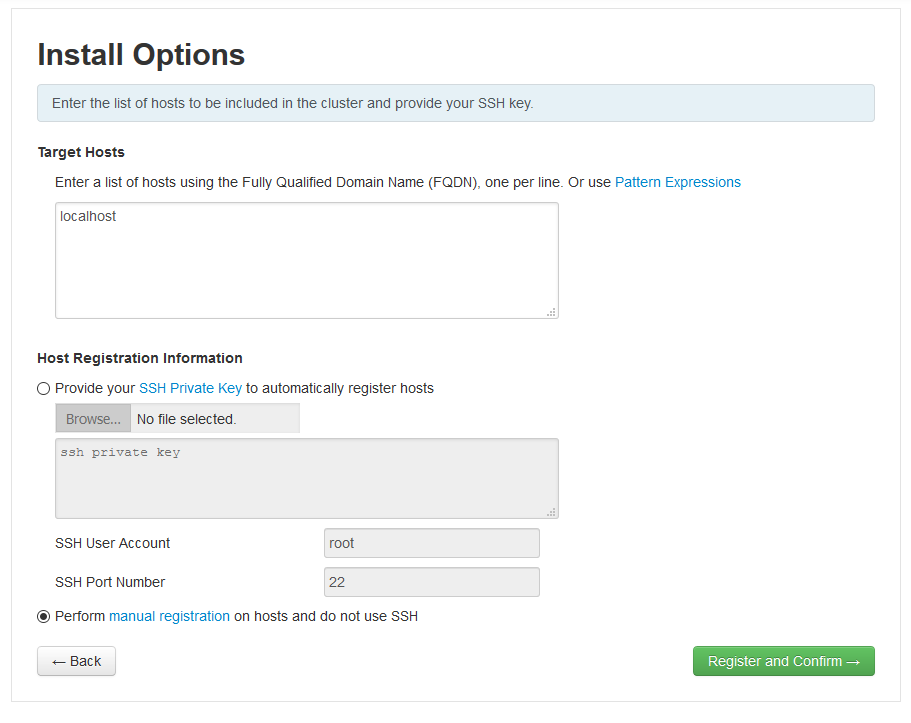
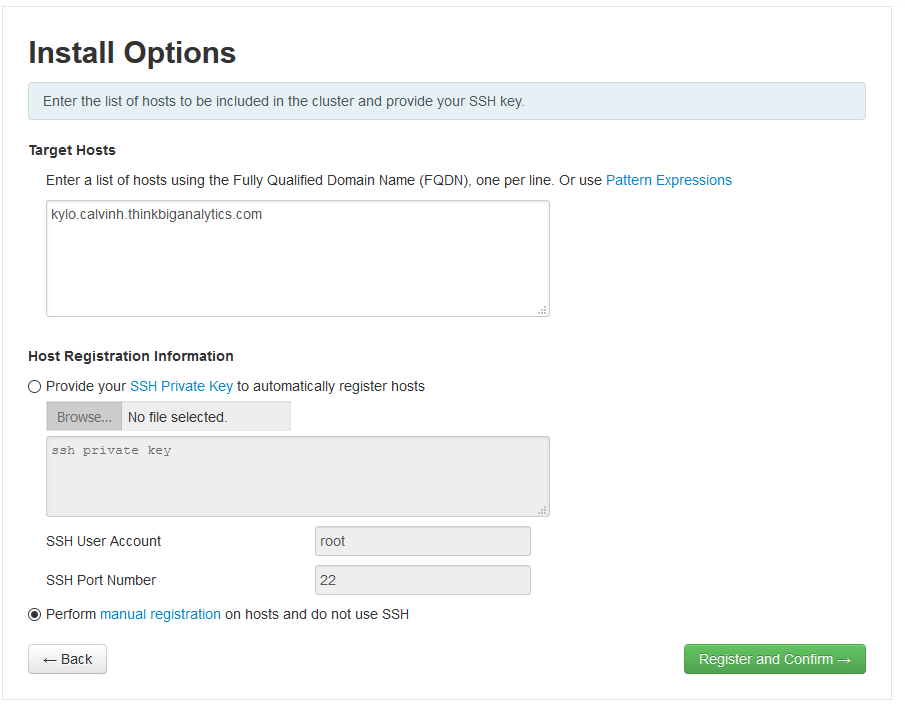
added more content

diff --git a/chapter2/section2.md b/chapter2/section2.md
@@ -81,8 +81,14 @@ On the Select Version page, chose the latest version. If you've got the reposito
 
 ![Local Image](/images/hdp-repo-rhel7.PNG)
 
-On the Install Options page, put 'localhost' into the list of target hosts. If you're building an entirely new cluster with several machines, you can put in the hostnames here, one per line. Note that if you're setting up multiple machines it would be a good idea to setup the SSH key for each of them. Technically, we could also setup an SSH key for the local machine, but that is pretty overkill.
+On the Install Options page, put in your machines hostname into the list of target hosts. If you're building an entirely new cluster with several machines, you can put in the hostnames here, one per line. Note that if you're setting up multiple machines it would be a good idea to setup the SSH key for each of them. Technically, we could also setup an SSH key for the local machine, but that is pretty overkill.
 
 As we've already started and installed the Ambari Agent on this all-in-one machine, we can accept the manual registration option. We just need to ensure the ambari-client is running and configured correctly before proceeding (see previous steps). Select the correct options as seen in the picture and hit next:
 
 ![Local Image](/images/hdp-ambari-hosts.PNG)
+
+Ignore the warnings/message and you should get a page like this. If your machine was unsuccessful, it means there was an issue with connectivity. This can either mean that a firewall (iptables or firewalld) is blocking connectivity to the agent (this should be unlikely on an all-in-one machine using localhost) OR the agent was not running correctly (ensure the agent is started and running and that it is pointing to localhost in the agent).
+
+Eventually you will see a screen like this, just hit next when possible to choose which services you want to install on the server:
+
+![Local Image](/images/hdp-ambari-services.PNG)

diff --git a/chapter2/section1.md b/chapter2/section1.md
@@ -124,12 +124,12 @@ Let's also install wget to make it simpler to download stuff. CURL can also be u
 
 &ast; Note: By default, Firewalld and Iptables seem to be disabled, so we don't need to worry about opening ports. However, SELinux is enabled.
 
-As we're not using a DNS server, though we could use route 53, our own DNS servers (e.g setup BIND) or an existing organisation DNS servers, we will edit the hosts file for our server. Edit the /etc/hosts file and add localhost entries for both your public and private IP address. Also if you change your hostname to something other than the hostname provided by AWS, change add an entry for this as well. My machine's hostname is (kylo.calvinh.thinkbiganalytics.com):
+&ast; If you change your hostname to something different to the one Amazon gives you when you provision your machine, you will most likely need to edit your host file unless you have DNS servers available. In theory you can use Route53, existing organisational DNS servers or set up your own using something like Bind. My machine's hostname is (kylo.calvinh.thinkbiganalytics.com) and I just edited the /etc/hosts file to add an entry:
 
 ```
   # vi /etc/hosts
-  172.31.9.152 localhost
-  52.56.250.29 localhost
+  127.0.0.1   localhost localhost.localdomain localhost4 localhost4.localdomain4
+  ::1         localhost localhost.localdomain localhost6 localhost6.localdomain6
   52.56.250.29 kylo.calvinh.thinkbiganalytics.com kylo
 ```
 

diff --git a/chapter3/section2.md b/chapter3/section2.md
@@ -1,0 +1,3 @@
+# Chapter 3, Section 2: Using the Kylo REST API  
+
+### Kylo's REST API
